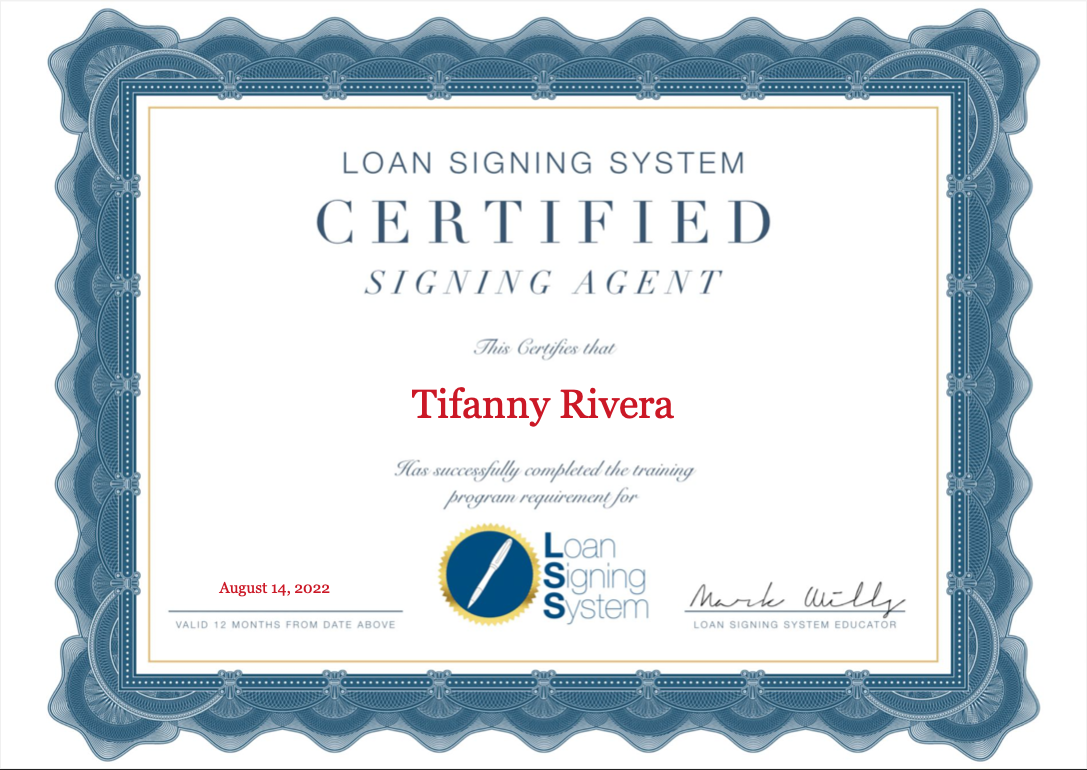
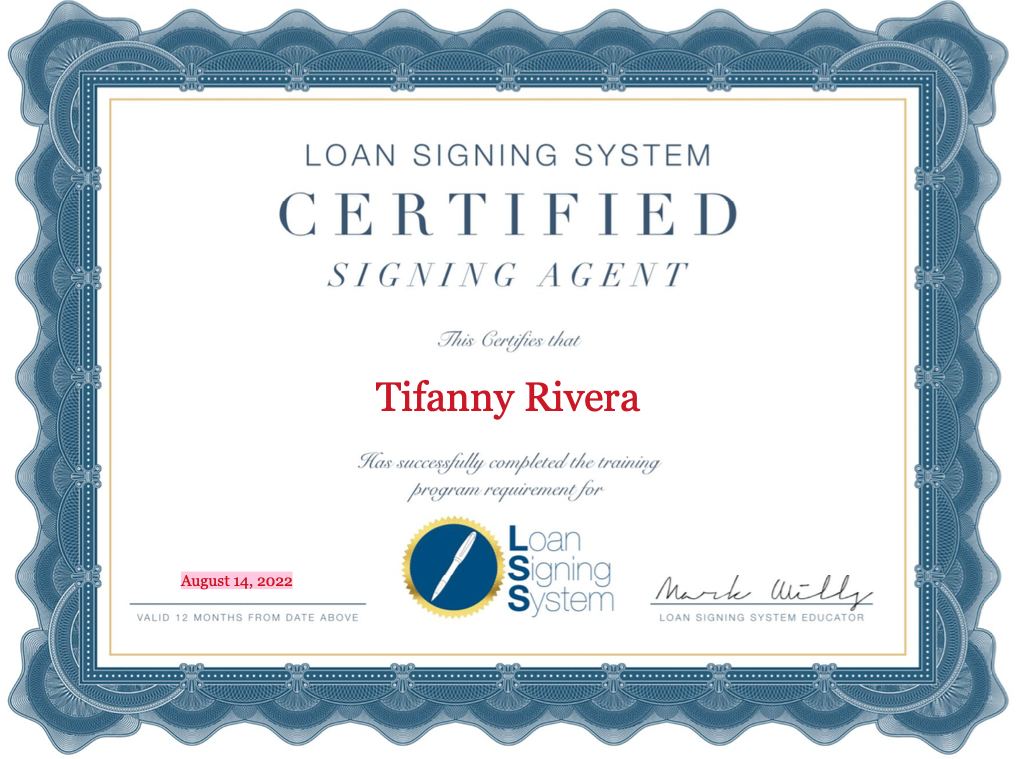
added card to credentials component, not sure if I want to keep it

diff --git a/src/Components/Credentials/Credentials.js b/src/Components/Credentials/Credentials.js
@@ -1,13 +1,21 @@
 import React from "react";
 import "./credentials.css";
 import { Card } from "react-bootstrap";
-import certificate from '../../lss.png'
-
+import certificate from "../../lss.png";
 
 function Credentials() {
   return (
     <div className="credentials" id="credentials">
-      <img src={certificate} alt="Loan Signing System Certificate" />
+      <Card>
+        <Card.Header>Credentials</Card.Header>
+        <Card.Body>
+          <blockquote className="blockquote mb-0">
+            <p>
+              <img src={certificate} alt="Loan Signing System Certificate" />
+            </p>
+          </blockquote>
+        </Card.Body>
+      </Card>
     </div>
   );
 }

diff --git a/src/Components/Credentials/credentials.css b/src/Components/Credentials/credentials.css
@@ -1,9 +1,11 @@
 .credentials {
-    height: 100vh;
     padding: 20px;
 }
 
-
+.credentials
+img {
+    height: 500px;
+}
 
 
 
